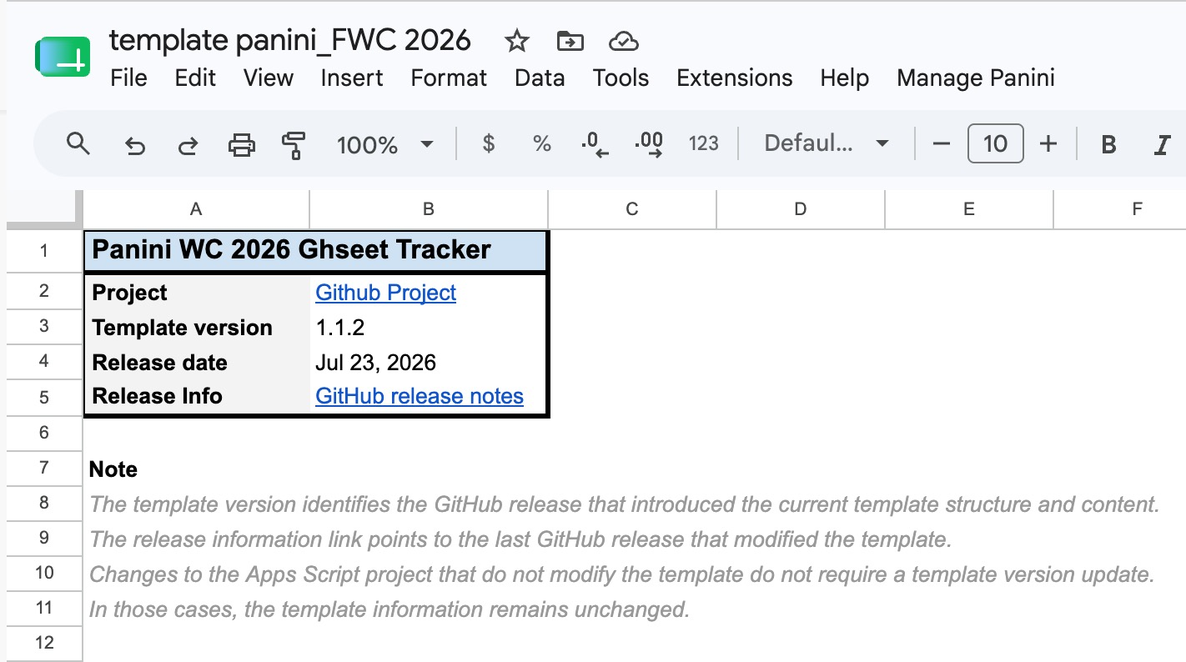
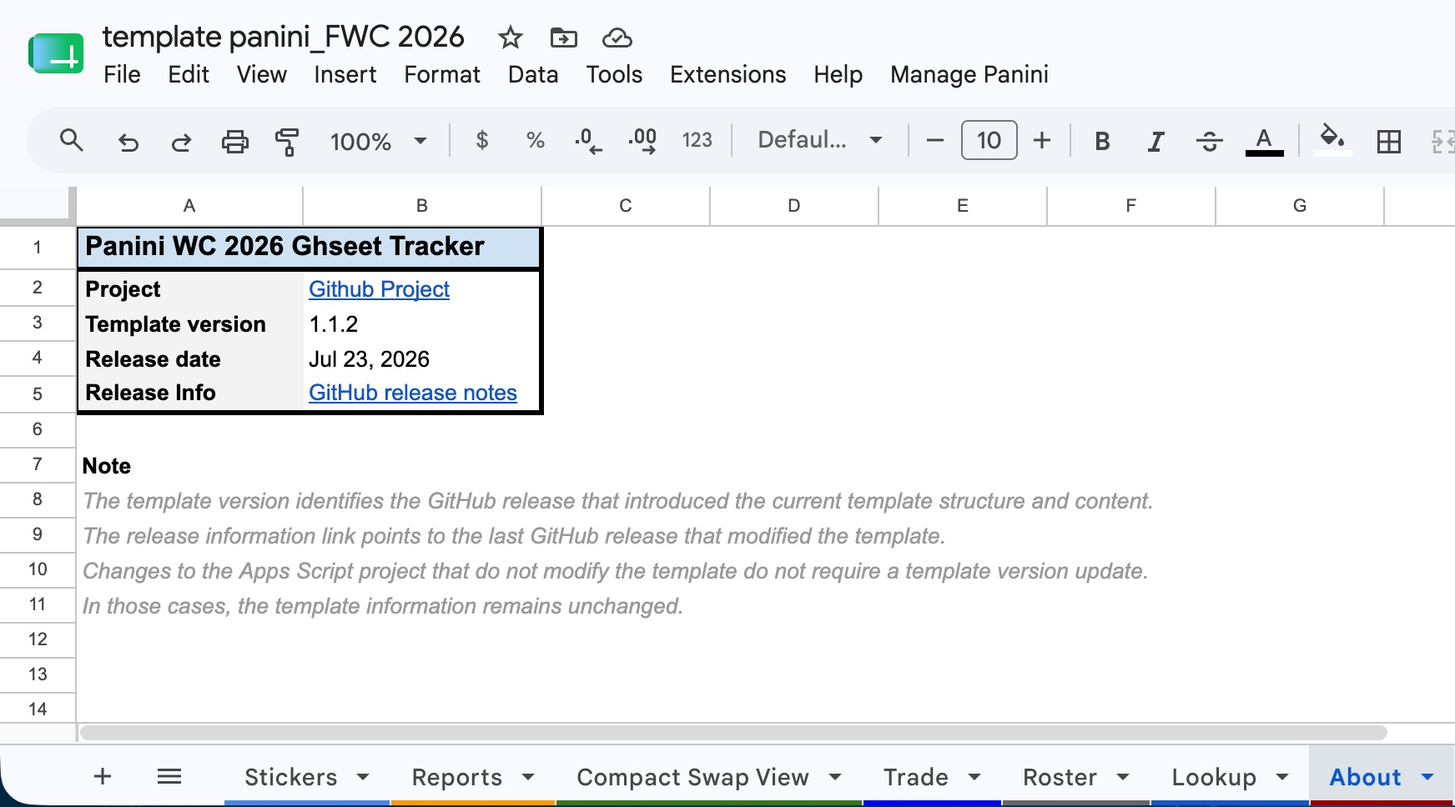
roster lookup and updated documentation

diff --git a/docs/FAQ.md b/docs/FAQ.md
@@ -33,9 +33,76 @@ Starting with release `1.1.0`, the Google Sheet Tracker includes a mobile web ap
 
 Yes, since release `1.1.1` it is possible to collect Coca-Cola stickers. The **Manage Panini** services were also adjusted to include such stickers.
 
+### Can I search by sticker number in the Quick sticker entry service?
+
+Yes. Starting with release `1.1.2`, this feature was introduced. You can now search for popular sticker numbers such as `1` or `13` across all country teams using the search box.
+
+If the search text is numeric, it is interpreted as a sticker number search. Otherwise, it is treated as a country code or country name search.
+
+### How can I identify the version of the template or the Apps Script project?
+
+Starting with release `1.1.2`, version information is available directly from both products:
+
+- **Google Spreadsheet template:** Open the `About` sheet to view the current template version and the corresponding GitHub release information.
+- **Apps Script project:** From the **Manage Panini** custom menu, select **About** to view the current Apps Script version and related project information.
+
+### Why are the template version and the Apps Script version different?
+
+Starting with release `1.1.2`, both the Google Spreadsheet template and the Apps Script project are versioned independently, and each version is displayed within its respective product:
+
+- **Google Spreadsheet template:** **About** sheet.
+- **Apps Script project:** **About** menu item.
+
+Both version numbers follow the GitHub release sequence, but they are tracked independently because the Google Spreadsheet template and the Apps Script project evolve separately.
+
+- *Template version:* Updated only when a GitHub release includes changes to the Google Spreadsheet template.
+- *Apps Script version:* Updated only when a GitHub release includes changes to the Apps Script source code.
+
+As a result, several version combinations are possible:
+
+1. **Template and Apps Script versions are the same**: The GitHub release contains changes to both the spreadsheet template and the Apps Script project.
+2. **The template version is behind the Apps Script version**: The versions were previously aligned, but subsequent releases only included changes to the Apps Script project.
+3. **The template version is ahead of the Apps Script version**: The versions were previously aligned, but subsequent releases only included changes to the spreadsheet template.
+4. **Both versions are behind the latest GitHub release**: One or more GitHub releases only introduced documentation, build, or other project-related improvements that did not affect either the spreadsheet template or the Apps Script project.
+
+
+### How can I look up the name of a player or sticker?
+
+The Google Sheets template is designed to help collectors track and complete the album. It is **not** intended to be a comprehensive player database. Starting with release `1.1.3`, a lightweight lookup feature was added to help collectors identify the player or item associated with a sticker ID.
+
+A new folder, `data`, was added to the project and contains the file `panini_fwc2026_roster.csv`. This file serves as the roster database for all stickers, including player stickers and special stickers such as `FWC` and `CC`. Each record contains the following information:
+
+- `Sticker ID`
+- `Type`
+- `Name/Description`
+- `Country/Category`
+- `Club`
+- `Position` (player position)
+
+There is no need to open or inspect this file directly. The template provides a lookup interface in the `Lookup` tab. The roster is automatically loaded into the `Roster` tab from the GitHub repository, so any updates made to the repository will be reflected in the template after Google Sheets refreshes the imported data.
+
+### Why do sticker IDs `MAR*` in `data/panini_fwc2026_roster.csv` start with an apostrophe (`'`)?
+
+Google Sheets automatically interprets values such as `MAR3` as dates (for example, **Mar 3**) when importing CSV files. Prefixing the value with an apostrophe (for example, `'MAR3`) forces Google Sheets to treat it as plain text, preserving the original sticker ID.
+
+The apostrophe is only an import safeguard. It is **not** part of the sticker ID and is not displayed or used by the template.
+
+### Can I search using non-ASCII characters in roster lookup service?
+
+Yes. The lookup service in the `Lookup` tab normalizes the lookup values for `Name`, `Country/Category`, and `Club`, as well as the corresponding columns in the `Roster` tab, to their ASCII equivalents before performing the search. This normalization is performed using the `NORMALIZE` named function and is completely transparent to the user.
+
+For example, if you search for the player `Staněk` (Jindřich Staněk from Czechia), the lookup converts both the search term and the roster data to `Stanek`, allowing the match to succeed while still returning the player's name in its original form with non-ASCII characters.
+
+The roster file `data/panini_fwc2026_roster.csv` always stores player names, countries/categories, and club names in their canonical form. ASCII normalization is applied only during the lookup process to make searches easier, so you do not need to know or type language-specific characters. For example, searching for `Stanek` will correctly find `Staněk`, `Curacao` will match `Curaçao`, and `Club America` will match `Club América`.
+
+
 ### After copying the Panini template, I don't see the **Manage Panini** menu?
 
 This is usually a timing issue. It may take a few moments for the menu to appear. Simply refresh the page, and the **Manage Panini** menu should become available.
+
+### I don't see a new menu item in **Manage Panini** custom menu?
+
+If a new release updated the **Manage Panini** menu, you need to refresh your Google Spreadsheet template in order to see it.
 
 ### After copying the Panini template and granting access, I don't see the `appsscript.json` file?
 
@@ -61,42 +128,6 @@ The purpose of this step is simply to provide you with the Web App URL. Alternat
 ### After deploying the Web App, I don't see the application listed?
 
 This is usually a timing issue. Refresh the Apps Script page, then open the **Deploy** drop-down menu in the upper-right corner and select **Manage deployments**. The newly deployed Web App should appear in the list.
-
-### Can I search by sticker number in the Quick sticker entry service?
-
-Yes. Starting with release `1.1.2`, this feature was introduced. You can now search for popular sticker numbers such as `1` or `13` across all country teams using the search box.
-
-If the search text is numeric, it is interpreted as a sticker number search. Otherwise, it is treated as a country code or country name search.
-
-### How can I identify the version of the template or the Apps Script project?
-
-Starting with release `1.1.2`, version information is available directly from both products:
-
-- **Google Spreadsheet template:** Open the `About` sheet to view the current template version and the corresponding GitHub release information.
-- **Apps Script project:** From the **Manage Panini** custom menu, select **About** to view the current Apps Script version and related project information.
-
-### I don't see the About item in **Manage Panini** custom menu?
-
-If a new release updated the **Manage Panini** menu, you need to refresh your Google Spreadsheet template in order to see it.
-
-### Why are the template version and the Apps Script version different?
-
-Starting with release `1.1.2`, both the Google Spreadsheet template and the Apps Script project are versioned independently, and each version is displayed within its respective product:
-
-- **Google Spreadsheet template:** **About** sheet.
-- **Apps Script project:** **About** menu item.
-
-Both version numbers follow the GitHub release sequence, but they are tracked independently because the Google Spreadsheet template and the Apps Script project evolve separately.
-
-- *Template version:* Updated only when a GitHub release includes changes to the Google Spreadsheet template.
-- *Apps Script version:* Updated only when a GitHub release includes changes to the Apps Script source code.
-
-As a result, several version combinations are possible:
-
-1. **Template and Apps Script versions are the same**: The GitHub release contains changes to both the spreadsheet template and the Apps Script project.
-2. **The template version is behind the Apps Script version**: The versions were previously aligned, but subsequent releases only included changes to the Apps Script project.
-3. **The template version is ahead of the Apps Script version**: The versions were previously aligned, but subsequent releases only included changes to the spreadsheet template.
-4. **Both versions are behind the latest GitHub release**: One or more GitHub releases only introduced documentation, build, or other project-related improvements that did not affect either the spreadsheet template or the Apps Script project.
 
 ## Google Access/Security Questions
 

diff --git a/docs/TechnicalArchitecture.md b/docs/TechnicalArchitecture.md
@@ -155,49 +155,54 @@ At startup, the script prints the active configuration, for example:
 
 ```text
 panini-wc-2026-gsheet-tracker/
-├── .clasp.json.template         # Template clasp configuration file, used in 'clasp.zsh'.
-|── .claspignore                 # Indicates folders/files to ignore by clasp.
-|── .eslintignore                # Indicates folders/files to ignore by ESLint (code analysis).
-|── .eslintrc.js                 # ESLint configuration file with customized rules.
-|── .gitignore                   # Folders/files to ignore by git (repository).
-├── package.json                 # Node project descriptors, dependencies, and pipeline bindings.
-├── package-lock.json            # Generated, lock to exact version. Required for CI.
-├── jsconfig.json                # VS Code config file to specify JavaScript project's configuration.      
-├── .github/                     # GitHub-specific configurations, automation workflows, CI project setup.
-│    ├── actions/                # Standard folder for CI project setup.
-│    │   └── setup-project/      # Standard folder for CI actions.
-│    │       └── action.yml      # CI project common setup to both workflows.
-│    └── workflows/              # Dedicated directory used exclusively to store GitHub Actions workflow files
-│        ├── deploy.yml          # CI deploy of the project to GAS
-│        └── validate.yml        # CI validation, i.e. ESLint and test
-├── scripts/                     # Folder for utility scripts.
-│   ├── build.js                 # JavaScript bridge extracting HTML blocks for local unit tests.
-│   ├── clasp.zsh                # Unified, transactional shell sync-and-backup engine (local GAS ↔ repository).
-|   ├── fix-jsdoc.js             # Fit short JSDOC comments into a single line.
-├── src/                         # MUTABLE LOCAL SOURCE OF TRUTH.
-│   ├── appscript.json           # Project manifest. Central configuration file for a Google Apps Script project.
-│   ├── Code.gs                  # Structural GAS cloud UI generation menu bindings.
-│   ├── Commons.gs               # General runtime utilities and global system declarations.
-│   ├── *Service.gs              # Modular system business data service providers.
-│   └── html/                    # User Interface markup layouts and layer scripts.
-│       ├── *Dialog.html         # Desktop dialog containers handling events and cloud calls.
-|       |── *View.html           # View services used by *Dialog.html and Mobile*.html services.
-│       ├── *Helpers.html        # Extracted browser-independent pure processing logic.
-│       └── *Render.html         # Dedicated UI factory components building visual DOM structures.
-│       └── MobileHome.html      # Mobile entry point (navigation drawer, view switching, injected view via include).
-│       └── Mobile*View.html     # Wrapper views for mobile services or simplified implementation of the service.
-│       └── *Styles.html         # Styles files, i.e. CSS configuration.
-├── build/                       # AUTOMATED TARGET CACHE (BLOCK MANUAL MUTATIONS).
-│   ├── *.js                     # Code blocks compiled into common JS specifications.
-│   └── *.html.js                # Extracted helpers and render algorithms wrapped for mock evaluation.
-├── test/                        # ISOLATED JEST UNIT TESTING GRID.
-│   ├── *.unit.test.js           # Target test cases checking functional service compliance.
-│   ├── jest.config.js           # Jest configuration file.
-│   ├── utils/
-│       └── testKernel.js        # Main environment emulation stubbing global Google objects.
-└── backup/                      # LOCAL ZIP HISTORY STORAGE (AUTO-GENERATED).
-    ├── [TIMESTAMP]_src.zip      # Rollback snapshots of local 'src' right before a pull merge.
-    └── [TIMESTAMP]_gas.zip      # Rollback snapshots of cloud remote code right before a push deploy.
+├── .clasp.json.template          # Template clasp configuration file, used in 'clasp.zsh'.
+|── .claspignore                  # Indicates folders/files to ignore by clasp.
+|── .cspell.json                  # Code Spell Checker extension configuration file (folder/files to exclude).
+|── .eslintignore                 # Indicates folders/files to ignore by ESLint (code analysis).
+|── .eslintrc.js                  # ESLint configuration file with customized rules.
+|── .gitignore                    # Folders/files to ignore by git (repository).
+├── package.json                  # Node project descriptors, dependencies, and pipeline bindings.
+├── package-lock.json             # Generated, lock to exact version. Required for CI.
+├── jsconfig.json                 # VS Code config file to specify JavaScript project's configuration. 
+├── .vscode/                      # VS Code project settings.
+│    ├── settings.json            # VS Code project file configuration.
+├── .github/                      # GitHub-specific configurations, automation workflows, CI project setup.
+│    ├── actions/                 # Standard folder for CI project setup.
+│    │   └── setup-project/       # Standard folder for CI actions.
+│    │       └── action.yml       # CI project common setup to both workflows.
+│    └── workflows/               # Dedicated directory used exclusively to store GitHub Actions workflow files
+│        ├── deploy.yml           # CI deploy of the project to GAS
+│        └── validate.yml         # CI validation, i.e. ESLint and test
+├── data/                         # Static datasets associated to the project.
+│   └── panini_fwc2026_roster.csv # Panini sticker cards roster.
+├── scripts/                      # Folder for utility scripts.
+│   ├── build.js                  # JavaScript bridge extracting HTML blocks for local unit tests.
+│   ├── clasp.zsh                 # Unified, transactional shell sync-and-backup engine (local GAS ↔ repository).
+|   ├── fix-jsdoc.js              # Fit short JSDOC comments into a single line.
+├── src/                          # MUTABLE LOCAL SOURCE OF TRUTH.
+│   ├── appscript.json            # Project manifest. Central configuration file for a Google Apps Script project.
+│   ├── Code.gs                   # Structural GAS cloud UI generation menu bindings.
+│   ├── Commons.gs                # General runtime utilities and global system declarations.
+│   ├── *Service.gs               # Modular system business data service providers.
+│   └── html/                     # User Interface markup layouts and layer scripts.
+│       ├── *Dialog.html          # Desktop dialog containers handling events and cloud calls.
+|       |── *View.html            # View services used by *Dialog.html and Mobile*.html services.
+│       ├── *Helpers.html         # Extracted browser-independent pure processing logic.
+│       └── *Render.html          # Dedicated UI factory components building visual DOM structures.
+│       └── MobileHome.html       # Mobile entry point (navigation drawer, view switching, injected view via include).
+│       └── Mobile*View.html      # Wrapper views for mobile services or simplified implementation of the service.
+│       └── *Styles.html          # Styles files, i.e. CSS configuration.
+├── build/                        # AUTOMATED TARGET CACHE (BLOCK MANUAL MUTATIONS).
+│   ├── *.js                      # Code blocks compiled into common JS specifications.
+│   └── *.html.js                 # Extracted helpers and render algorithms wrapped for mock evaluation.
+├── test/                         # ISOLATED JEST UNIT TESTING GRID.
+│   ├── *.unit.test.js            # Target test cases checking functional service compliance.
+│   ├── jest.config.js            # Jest configuration file.
+│   ├── utils/                    # Folder with test utility files for testing.
+│       └── testKernel.js         # Main environment emulation stubbing global Google objects.
+└── backup/                       # LOCAL ZIP HISTORY STORAGE (AUTO-GENERATED).
+    ├── [TIMESTAMP]_src.zip       # Rollback snapshots of local 'src' right before a pull merge.
+    └── [TIMESTAMP]_gas.zip       # Rollback snapshots of cloud remote code right before a push deploy.
 ```
 
 ---

diff --git a/README.md b/README.md
@@ -51,7 +51,7 @@ The `Stickers` tab also includes calculated fields such as `Done`, `%`, `Rep`, a
 
 One support column is hidden in the `Stickers` tab: `AD`, which stores the country group. This column is required for the Pivot Table in the `Reports` tab. Since a Pivot Table's range input requires a single range, it needs to be part of the `Stickers` tab range.
 
-![Stickers tab](images/stickersView.jpg)
+![Stickers tab](images/stickersTabView.jpg)
 
 **Note:** In this document, country code means the code of the soccer team in the Panini album and also includes special sticker groups such as `FWC` and `CC`. This applies throughout the tracker.
 
@@ -174,7 +174,7 @@ This service is enabled mainly through the `Compact Swap View` tab. The informat
 
 It is especially useful when sharing your collection status through messaging apps or social media, where a compact and readable summary is more practical than a full tracker view focused on repeated and missing stickers for trading purposes.
 
-![Compact Swap View tab](images/swapCompactView.jpg)
+![Compact Swap View tab](images/swapCompactTabView.jpg)
 
 The output of Need Stickers can be sorted, look for the drop-down value to the right of `SORT`:
 
@@ -193,7 +193,7 @@ This service is enabled mainly through the `Reports` tab, which generates report
 
 It helps you identify which teams are closest to completion and review your overall progress from a reporting perspective rather than by album order as shown in the `Stickers` tab.
 
-![Reports tab](images/reportsView.jpg)
+![Reports tab](images/reportsTabView.jpg)
 
 ### Trade with another collector
 
@@ -203,7 +203,7 @@ This service is enabled through the `Trade` tab. Paste the other collector's dat
 
 Review the generated **OUTPUT** section to see what you can offer and what you may receive.
 
-![Trade tab](images/tradeView.jpg)
+![Trade tab](images/tradeTabView.jpg)
 
 > Note: As you can see from the image it accepts different delimiters, flag icons, repeats and interprets correctly ranges in both forms: `A-B` and `A-B(X)`.
 
@@ -224,6 +224,27 @@ For example, Korea is closer to completion than Mexico, so obtaining a missing s
 > The main advantage of this tab is that it finds matching trade opportunities. The **Export shared stickers** service from the **Manage Panini** menu only facilitates sharing information about the user's needs and available repeats, but it does not identify matches with another collector.
 
 📌 This entire process is significantly simplified by the information provided in this tab.
+
+### Roster lookup service
+
+Starting with version `1.1.3`, collectors have access to the sticker roster through the `Roster` tab:
+
+![Roster tab](images/rosterTabView.jpg)
+
+The information displayed is loaded from `data/panini_fwc2026_roster.csv` in the GitHub repository and is refreshed whenever the file is updated. This file serves as the roster database for all stickers, including player stickers and special stickers such as `FWC` and `CC`. Each record contains the following information:
+
+- `Sticker ID`
+- `Type`
+- `Name/Description`
+- `Country/Category`
+- `Club`
+- `Position` (player position)
+
+The roster is stored in its canonical form. This means that `Name/Description`, `Country/Category`, and `Club` values preserve their original non-ASCII characters.
+
+Collectors can perform lookups using the service provided in the `Lookup` tab. This is particularly useful during sticker trading, when other collectors share only the front side of a sticker. The lookup service helps identify the corresponding sticker ID based on the available information.
+
+![Lookup tab](images/lookupTabView.jpg)
 
 ### Mobile Services
 
@@ -472,6 +493,16 @@ The Gsheet tracker has defined some custom functions to simplify the calculation
 
 - `GET_TRADES(octry,ovals,ctry,vals,isget)`: This function takes an array of countries (`octry`) and sticker values (`ovals`) from another collector and countries (`ctry`) and values (`vals`) from the collector (owner of the tracker). It returns the matches (country and stickers) between the collectors. If the input argument `isget` is `TRUE/1`, it returns the matches of the countries and stickers that the collector will receive from another collector. In this case, the values of `octry` and `ovals` represent repeated stickers from another collector. If `isget` is `FALSE/0`, it returns the matches of the countries and stickers that the collector will send to another collector. In this case, the values of `octry` and `ovals` represent missing stickers from another collector. This named function is used in the `Trade` tab, specifically in the **OUTPUT** section.
 
+- `NORMALIZE(txt,non_ascii_arr,ascii_arr)`: Normalizes a string (`txt`) by replacing non-ASCII characters with their ASCII equivalents while preserving the original upper/lower case. `non_ascii_arr` is the array containing the non-ASCII characters to replace. Each element may contain multiple comma-separated non-ASCII characters that map to the same ASCII character. `ascii_arr` contains the corresponding replacement ASCII characters. Both arrays must have the same shape, with each element in `non_ascii_arr` mapped to the corresponding element in `ascii_arr`. This named function is used by the `Lookup` tab.
+
+---
+
+## Google Spreadsheet Tables
+
+The template primarily uses named ranges. However, in a few cases, Google Spreadsheet tables are used only within the template because they are a relatively recent feature and are still gradually gaining Apps Script API support.
+
+- `TB_ASCII`: Table that maps non-ASCII characters to their equivalent ASCII characters. The columns associated with this table, as well as the supporting columns in the `Roster` tab, are hidden.
+
 ---
 
 ## Hidden tabs
@@ -555,10 +586,16 @@ The project was initially announced on Reddit, but GitHub is now the primary loc
 ## Files
 In alphabetical order and organized by folders:
 
+- Under the `.vscode` folder:
+  - `settings.json`: VSCode project configuration file. Contains words to ignore by Code Spell Checker extension.
+
 - Under the `.github` folder:
   - `action/setup-project/action.yml`: Common CI setup project.
   - `workflows/deploy.yml`: CI deployment file using Github secrets, to be executed when changes in `src/` folder, `deploy.yml` and `action.yml` files.
   - `workflows/validation.yml`: CI project validation, i.e. runs EsLint and tests.
+
+- Under the `data` folder:
+  - `panini_fwc2026_roster.csv`: panini sticker roster file.
 
 - Under the `docs` folder:
   - `ImportExportServiceRequirements.md`: Requirements document for the import/export service.

diff --git a/CHANGELOG.md b/CHANGELOG.md
@@ -6,6 +6,58 @@ The format is inspired by **Keep a Changelog** and this project uses simple rele
 project structure, and documentation.
 
 ---
+## [1.1.3] 2026-07-25
+
+### Overview
+
+Google Spreadsheet tracker: implemented a roster lookup feature based on the Panini FIFA World Cup 2026 roster file. Updated the project documentation to include the new lookup functionality. Minor project configuration changes were also made to include configuration files in the GitHub repository.
+
+### Google Spreadsheet template
+
+#### Added
+
+- `Roster` tab to the Google Spreadsheet template to load the Panini sticker roster file from the GitHub repository.
+- `Lookup` tab to the Google Spreadsheet template to perform lookup searches against the data loaded in the `Roster` tab.
+
+- Under the `data` folder:
+  - `panini_fwc2026_roster.csv`: Roster file containing detailed information for each sticker, including player name, country, club, and position. It also includes information for special stickers (`FWC` and `CC`). This file is used to populate the `Roster` tab and provides the data used by the `Lookup` tab.
+
+- Under the `images` folder:
+  - `lookupTabView.jpg`: Screenshot of the `Lookup` tab.
+  - `rosterTabView.jpg`: Screenshot of the `Roster` tab.
+
+- Under the root folder:
+  - Added the `data` folder to store static project data.
+
+#### Changes
+
+- Under the `images` folder: Standardized image file names related to the Google Spreadsheet template by consistently including `Tab` in the file names:
+  - `aboutTabView.jpg`: Updated the screenshot to show the corresponding tab.
+  - `reportsView.jpg`: Renamed to `reportsTabView.jpg` and updated the screenshot to show the corresponding tab.
+  - `stickersView.jpg`: Renamed to `stickersTabView.jpg`.
+  - `swapCompactView.jpg`: Renamed to `swapCompactTabView.jpg` and updated the screenshot to show the corresponding tab.
+  - `tradeTabView.jpg`: Updated the screenshot to show the corresponding tab.
+
+- Under the `docs` folder:
+  - `FAQ.md`: 
+    - Added questions related to the roster lookup functionality.
+    - Reorganized some question, in a way it makes more sense for the reader.
+  - `TechnicalArchitecture.md`: Updated the folder structure to include the `data` and `.vscode` folders.
+
+- Under the root folder:
+  - `.gitignore`: Removed the `.vscode/` entry because `settings.json` is now part of the project configuration.
+  - `cspell.json`: Added the Code Spell Checker (ID: `streetsidesoftware.code-spell-checker`) configuration file to exclude `panini_fwc2026_roster.csv` from spell checking because it contains many non-ASCII characters.
+  - `README.md`:
+    - Added the *Roster Lookup Service* section describing the new lookup functionality in the Google Spreadsheet template.
+    - Added the *Google Spreadsheet Tables* section documenting the spreadsheet tables used by the template.
+    - Updated the *Named functions* section to include the `NORMALIZE` named function.
+  - `TODO.md`: Added the Panini sticker roster repository and roster lookup feature, and marked both tasks as completed.
+
+### Apps Script
+
+No changes were made to the Apps Script source code. This release only includes updates to the GitHub project (documentation, configuration files, and static data) plus changes in the Google Spreadsheet template. Therefore, the Apps Script release version remains unchanged.
+
+---
 
 ## [1.1.2] 2026-07-23
 

diff --git a/TODO.md b/TODO.md
@@ -15,3 +15,4 @@
 - [x] Reuse functions in `ImportHelper.html` in `MobileImportView.html` since some of the services are the same. Do it with caution since now it is it working as expected.
 - [x] Allow to search by sticker number in Quick Entry service.
 - [x] Show product version for gsheet template and for Apps Script project.
+- [x] Panini sticker card repository and lookup
